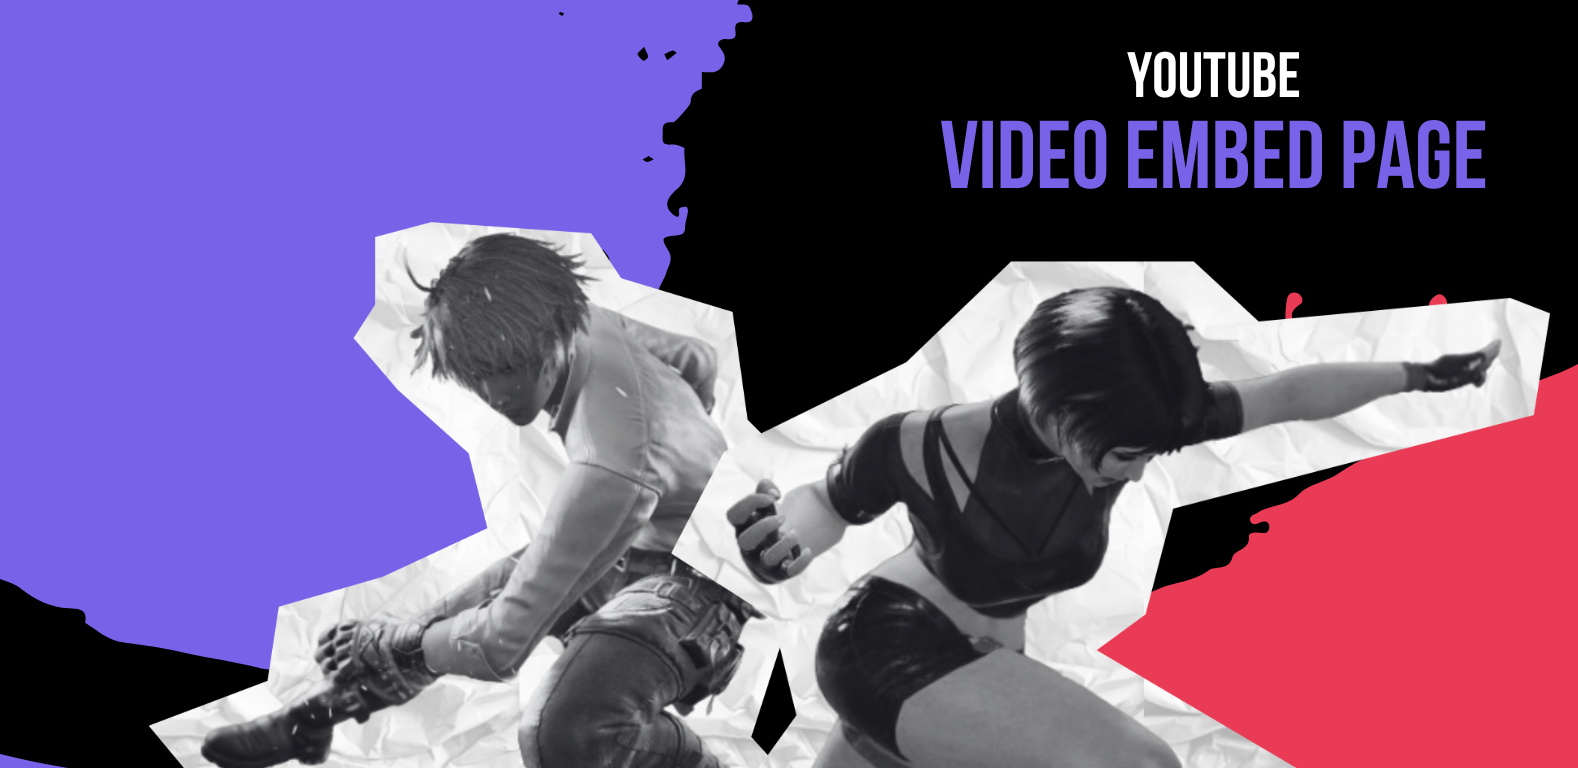
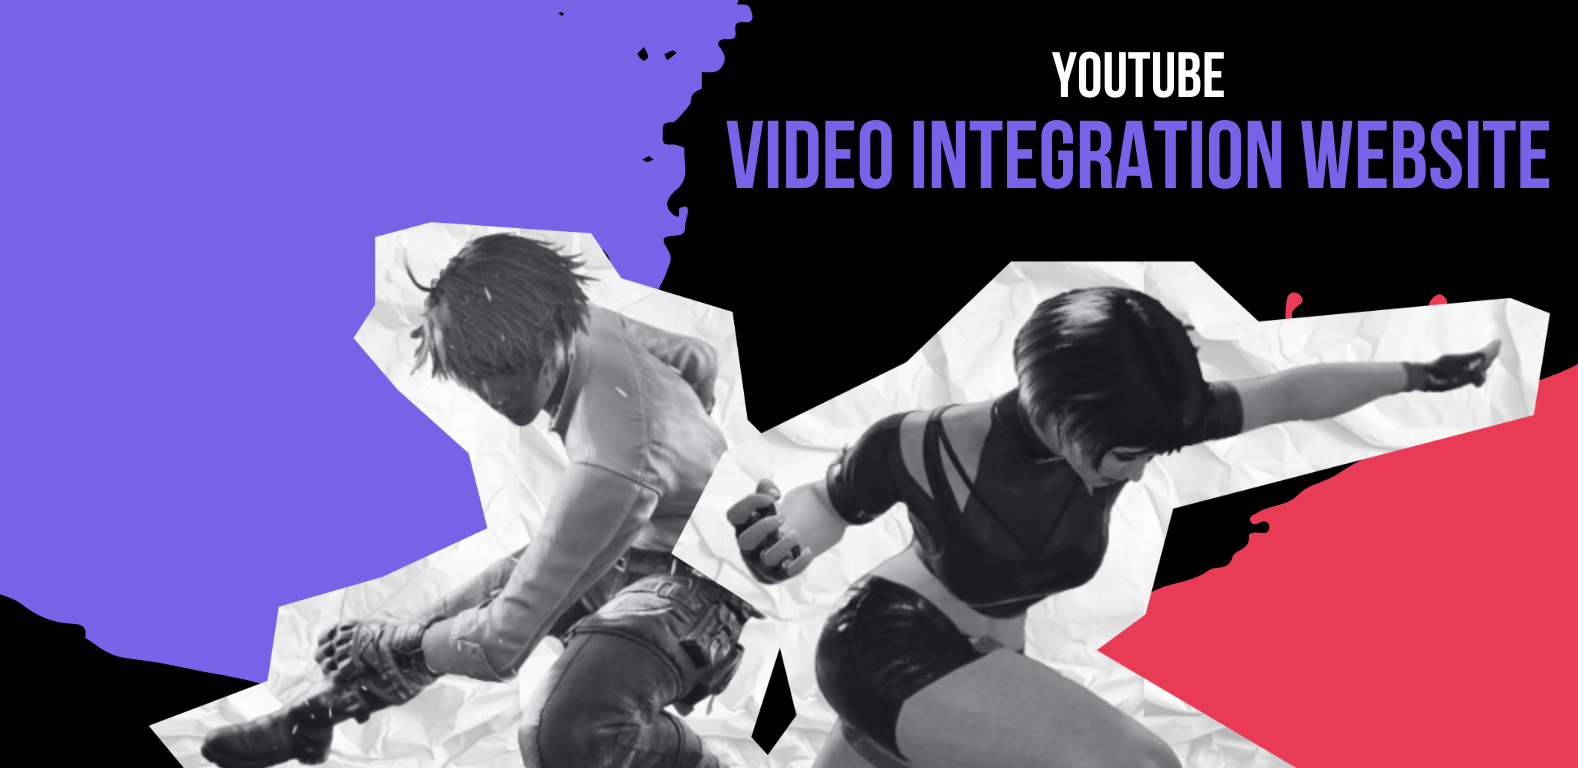
changed title & thumbnail

diff --git a/projects.html b/projects.html
@@ -233,7 +233,7 @@
         var outputName = [
             "Germany Tour Website",
             "Final Fantasy API Website",
-            "Video Embed"
+            "Youtube Video Integration Website"
         ]
         var output = [
             "A02/index.html",
@@ -284,7 +284,7 @@
             "ManongKrema Project",
             "Positive Aid Link (PAL): A Mental Health Scheduling and Service Platform for HealSpace, Lipa",
             "TICA: A Technological Innovation for Communication in Apraxia - A Mobile Application Utilizing AI-Driven Speech Therapy for Children with Apraxia",
-            "Other Works"
+            "Other Projects"
         ]
         var uiProj = [
             "urbn.html",

diff --git a/other.html b/other.html
@@ -89,7 +89,7 @@
             <div class="col-lg-12">
                 <img src="images/urbnmobileMockup.png" alt="mockupImage" class="img-fluid rounded-1 my-4">
                 <img src="images/shiftMockup.png" alt="mockupImage" class="img-fluid rounded-1 my-4">
-                <h3 class="text-light">OTHER WORKS</h3>
+                <h3 class="text-light">OTHER PROJECTS</h3>
                 <P class="text-secondary">
                   These projects showcase the application of skills and knowledge acquired throughout my previous work.  
                   I focused on efficient design processes, including advanced use of Figma.  Some projects, 
